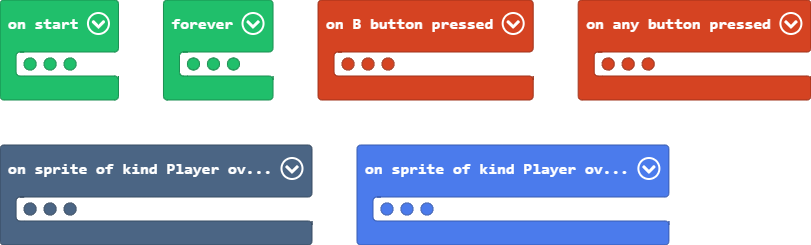
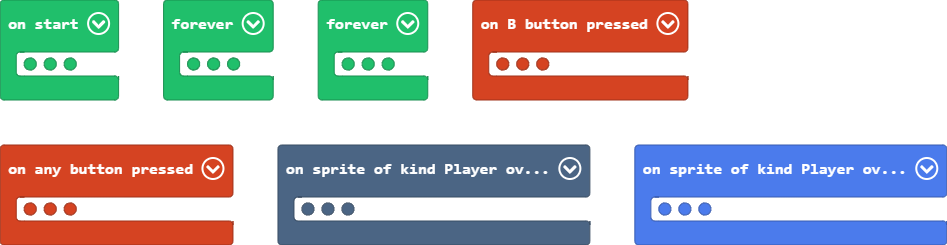
Update main.blocks, main.ts

diff --git a/main.ts b/main.ts
@@ -68,3 +68,11 @@ forever(function () {
         MyPlayer.setImage(assets.image`Player-NoWings`)
     }
 })
+forever(function () {
+    if (MyPlayer.y == 152) {
+        game.over(false)
+    }
+    if (MyPlayer.y == 8) {
+        game.over(false)
+    }
+})
